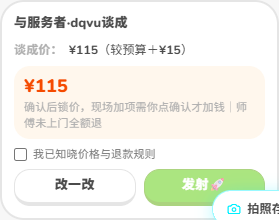
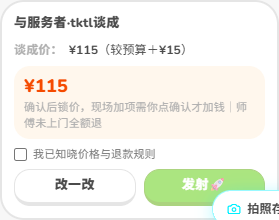
test(corridor):确认卡发射闭环加控制台纯考卷（宪法收敛：条文 #6）

Changed region(s): [[0.2294, 0.0545, 0.4588, 0.1364]]

diff --git a/src/components/admin/FactoryConsole.test.tsx b/src/components/admin/FactoryConsole.test.tsx
@@ -1,6 +1,6 @@
 import { renderToStaticMarkup } from "react-dom/server";
 import { describe, expect, it } from "vitest";
-import FactoryConsole from "./FactoryConsole";
+import FactoryConsole, { pricingText, strList } from "./FactoryConsole";
 
 describe("FactoryConsole static", () => {
   it("输入＋生成键渲染", () => {
@@ -8,5 +8,20 @@ describe("FactoryConsole static", () => {
     expect(html).toContain("factory-console");
     expect(html).toContain("一句话开品类");
     expect(html).toContain("生成品类");
+  });
+});
+
+describe("FactoryConsole pure", () => {
+  it("定价四式＋缺数回落", () => {
+    expect(pricingText({ pricingModel: { kind: "FIXED", amountYuan: 50 } })).toContain("¥50");
+    expect(pricingText({ pricingModel: { kind: "HOURLY", rateYuan: 60, minHours: 2 } })).toContain("¥60");
+    expect(pricingText({ pricingModel: { kind: "PER_SEAT", perSeatYuan: 80, minSeats: 2 } })).toContain("¥80");
+    expect(pricingText({ pricingModel: { kind: "FORMULA" } })).toContain("公式");
+    expect(pricingText({})).toBe("见配置");
+  });
+
+  it("strList 只收字符串", () => {
+    expect(strList(["a", 1, null, "b"])).toEqual(["a", "b"]);
+    expect(strList("x")).toEqual([]);
   });
 });

diff --git a/src/components/admin/FactoryConsole.tsx b/src/components/admin/FactoryConsole.tsx
@@ -16,7 +16,8 @@ interface FactoryResult {
   holographic: Record<string, unknown>;
 }
 
-function pricingText(h: Record<string, unknown>): string {
+/** 定价人话（纯函数，可单测）。 */
+export function pricingText(h: Record<string, unknown>): string {
   const p = h.pricingModel as { kind?: string; amountYuan?: number; rateYuan?: number; minHours?: number; perSeatYuan?: number; minSeats?: number } | undefined;
   if (!p || typeof p.kind !== "string") return "见配置";
   if (p.kind === "FIXED") return `一口价 ¥${p.amountYuan ?? "?"}`;
@@ -25,7 +26,8 @@ function pricingText(h: Record<string, unknown>): string {
   return "公式计价（见配置）";
 }
 
-function strList(v: unknown): string[] {
+/** 字符串数组收敛（纯函数，可单测）。 */
+export function strList(v: unknown): string[] {
   return Array.isArray(v) ? v.filter((x): x is string => typeof x === "string") : [];
 }
 
